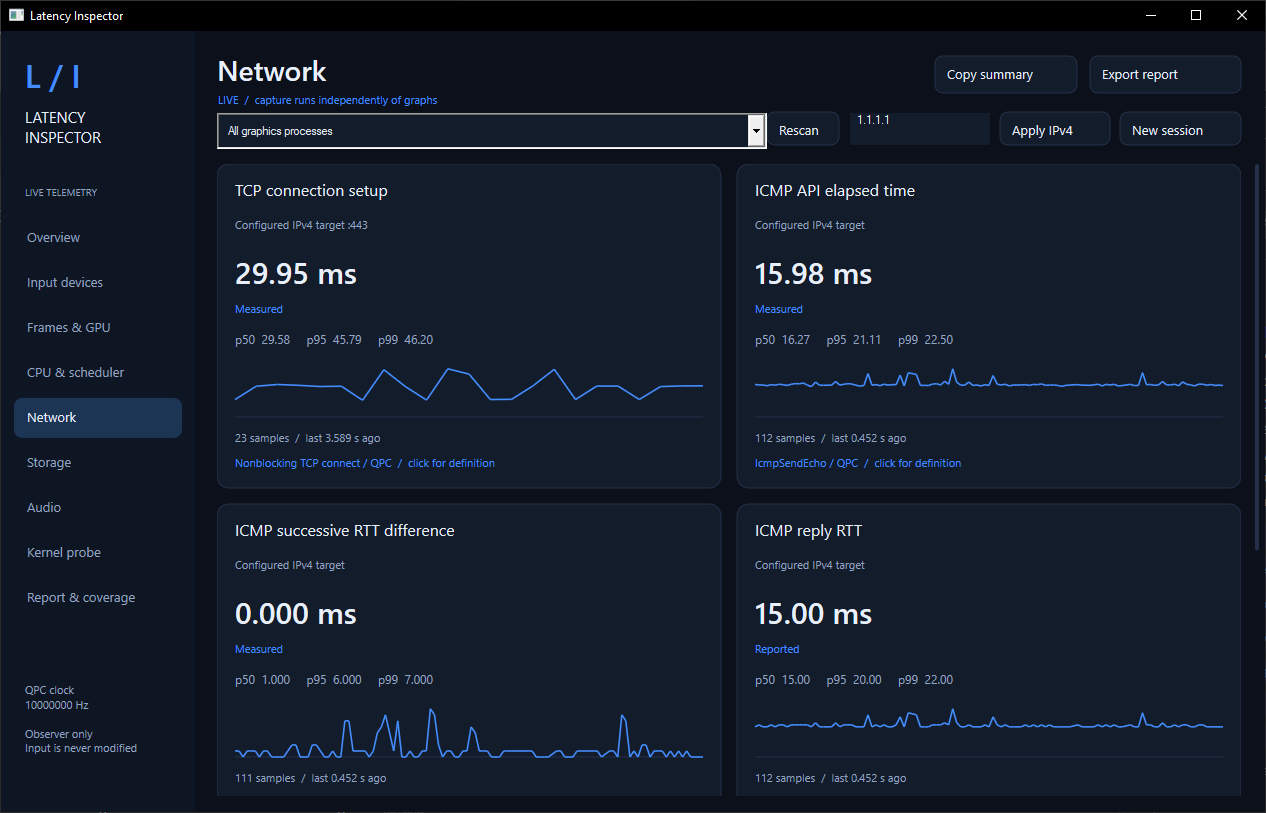
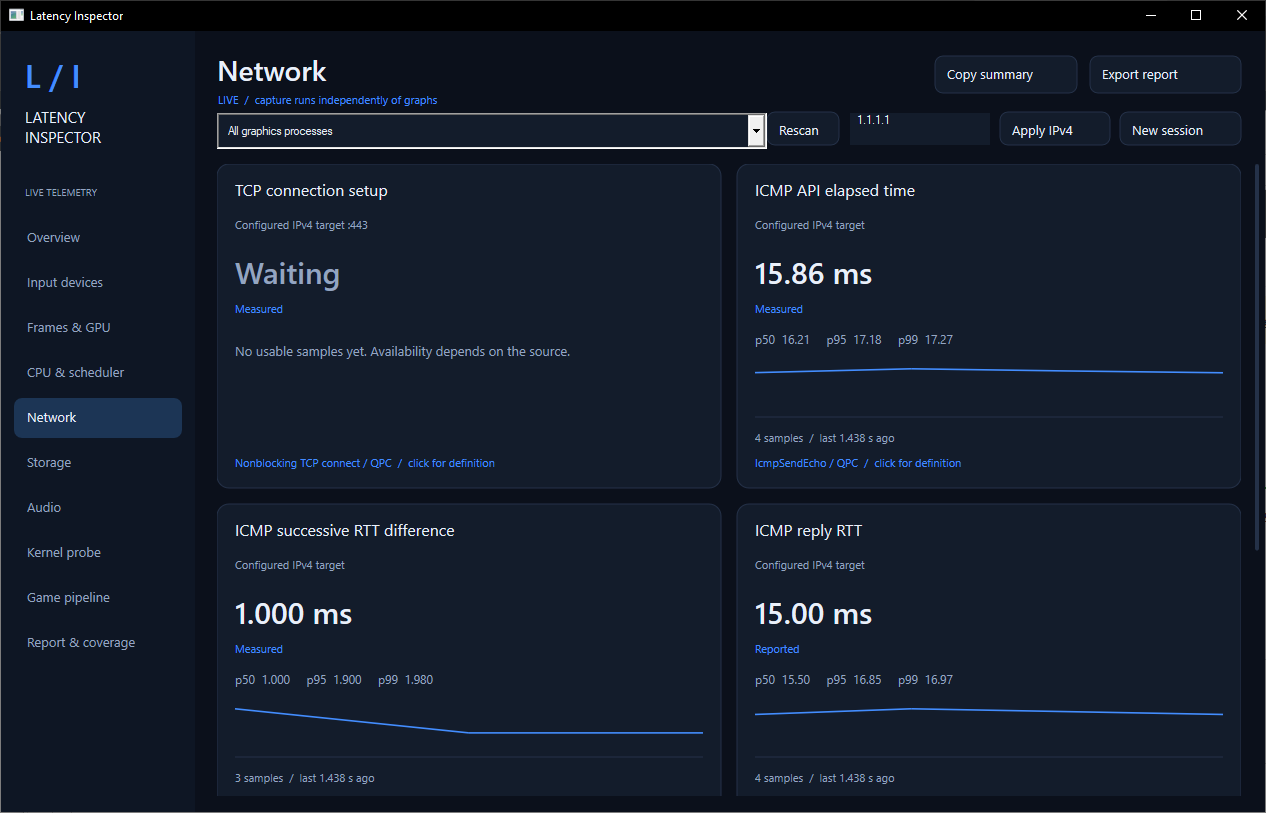
Publish Latency Inspector documentation and download guide

diff --git a/docs/measurements.md b/docs/measurements.md
@@ -20,11 +20,25 @@ Device IDs are capture-local views. PnP paths identify Windows nodes, not a guar
 
 ## Frames, CPU and GPU
 
+### Application stage markers
+
+The Game pipeline view consumes existing PCL/Reflex TraceLogging and Intel PresentMon application timing events. It never injects into a game or generates input. PCL event markers 0..5 identify simulation start/end, render submission start/end and Present start/end. Intel events can additionally provide sleep start/end and an application input-sample marker. PCL synthetic latency-ping markers are deliberately excluded from physical-input measurements.
+
+The collector does not generate diagnostic pings itself. A game's own PC Latency Stats instrumentation can generate its SDK's ping messages while statistics are enabled; those are not treated as physical mouse, keyboard or controller reports. A PCL initialization event resets that process/provider's pending pairs so markers are not paired across instrumentation reinitialization.
+
+Pairing requires the same process ID, provider and frame ID. PCL frame IDs retain all 64 bits; exported frame IDs are decimal strings to avoid JSON/JavaScript integer rounding. Providers and processes are never merged solely because timestamps are close. Missing, unsupported or reversed boundaries do not create a zero-duration sample. Identical duplicate timestamps are ignored; contradictory duplicates flag the frame as conflicting. The first valid historical pairs may remain in aggregate statistics, so review conflicts/coverage before interpreting them. Pending frame state is bounded to 512 records and the report keeps the latest 64 observed frame records.
+
+The view shows simulation, simulation-to-submission gap, render submission, submission-to-Present gap, Present, sleep, input-sample-to-Present and an aggregate simulation-start-to-Present-end interval when the required boundaries exist. These are elapsed wall-clock intervals around application-defined work and waits. They are not exclusive CPU execution times, and overlapping aggregate/child intervals must not be added.
+
+An application input-sample marker is not a USB reception timestamp and does not identify a particular physical report. This view does not correlate a marker frame with a specific PresentMon GPU/display record. USB-to-game latency, each third-party filter's per-input latency, physical display response and uninstrumented internal game functions remain unmeasured. Application instrumentation must be correctly placed by its author; registering a provider does not verify that placement. The pipeline collector has been validated with an owned marker emitter and schema/identity tests, not Fortnite or every commercial game.
+
 PresentMon uses graphics ETW events, separated by PID and swap chain. Some durations are reconstructed and require supported drivers, display events or application instrumentation. Blank fields remain unmeasured. A process may expose several swap chains. A reported display event is not a light sensor reading; monitor scan-out and pixel transition behavior cannot be independently verified here.
 
 If the full graphics pipeline produces no rows for ten seconds, capture automatically retries with CPU/Present-only tracing. This helps graphics stacks that do not provide the required GPU/display events, including some virtual machines. In that mode only CPU busy/wait, presentation interval and Present API duration are collected; GPU/display/input-to-display fields are excluded. Report & coverage identifies the fallback. Selecting a game or starting a new session retries full tracing.
 
 Kernel ISR/DPC durations describe system activity. ReadyThread/CSwitch pairs describe observed waits between a thread becoming ready and running. Only paired, known transitions contribute. Events lost by ETW or unobserved transitions limit coverage. These numbers do not by themselves establish that a game or input was delayed. Thread filtering uses known thread ownership; unowned events are not guessed.
+
+Driver attribution resolves the DPC/ISR entry routine address to a loaded kernel image range. An initial driver snapshot is supplemented by supported kernel image load/unload events. Unknown addresses remain unresolved and contribute to an unresolved-attribution flag. Per-driver values are inclusive elapsed routine intervals in microseconds and can include nested interrupts/preemption. They are not exclusive driver CPU time, not request residence time and not a critical-path allocation to the selected game or a particular input. Framework entry routines can resolve to the framework module instead of the vendor callback it invokes. Drivers that process input without a DPC/ISR are not covered by this breakdown.
 
 Timer wake lateness measures the inspector worker's lateness against a nominal 1 ms timer schedule. It includes collector execution and host scheduling effects. It is not the selected game's scheduling delay. CPU percentages are normalized across logical processors. Inspector CPU/memory measurements exclude its separate PresentMon process and some kernel trace overhead.
 
@@ -49,3 +63,6 @@ The initial release was built with warnings treated as errors and tested for bou
 - [Microsoft: DiskIo event data](https://learn.microsoft.com/en-us/windows/win32/etw/diskio-typegroup1)
 - [Microsoft: low-latency audio](https://learn.microsoft.com/en-us/windows-hardware/drivers/audio/low-latency-audio)
 - [Intel: PresentMon console metrics](https://github.com/GameTechDev/PresentMon/blob/v2.6.0/README-ConsoleApplication.md)
+- [NVIDIA: PC latency markers and their measurement boundaries](https://developer.nvidia.com/blog/?p=64245)
+- [Microsoft: DPC/ISR attribution by module and inclusive/exclusive duration](https://learn.microsoft.com/en-us/windows-hardware/test/wpt/cpu-analysis)
+- [Intel: public PCL marker schema](https://github.com/GameTechDev/PresentMon/blob/v2.6.0/PresentData/ETW/Nvidia_PCL.h)

diff --git a/README.md b/README.md
@@ -8,9 +8,9 @@
 
 ## Get started
 
-1. Download **Latency-Inspector-1.0.0-Windows-x64.zip** from Releases and extract the whole folder.
+1. Download **Latency-Inspector-1.1.0-Windows-x64.zip** from Releases and extract the whole folder.
 2. Run **LatencyInspector.exe**. Accept the administrator prompt for Windows kernel tracing.
-3. Select your game in the process list, or keep **All graphics processes**. Changing the selection starts a fresh measurement session.
+3. Open your game and select it in the process list. **Game pipeline** shows stages emitted by compatible instrumented applications, matched by PID, provider and frame ID. Missing stages remain unmeasured. Changing the selection starts a fresh measurement session.
 4. Play normally. Select a category or input device to inspect its graphs. Click a graph card for its exact definition.
 5. Use **Export report** to save measurements, percentiles, device identities and collector status as JSON.
 
@@ -23,7 +23,8 @@ Windows 10 version 2004 or later / Windows 11, x64. No runtime installation, acc
 | Keyboard, mouse and HID controllers | Separate Windows Raw Input device views, message intervals and handler time; includes supported Windows HID views of gamepads. |
 | Xbox / XInput / GIP | XInput state-query cost and packet-change intervals per slot; HID views when Windows exposes them; optional passive kernel transport observations. |
 | Frames and GPU | Present intervals, CPU busy/wait, GPU busy/wait and queueing timelines, Present API time and software display estimates through Intel PresentMon. Availability depends on the game, graphics driver and presentation mode. |
-| CPU and system | ISR/DPC duration, observed thread ready-to-running waits, timer wake lateness, hard faults, CPU and memory usage. |
+| Game pipeline | Actual application marker pairs for simulation, render submission, Present and supported sleep/input-sample boundaries. PCL/Reflex and Intel application events are matched by PID, provider and full frame ID. No process injection is used. |
+| CPU and system | ISR/DPC duration, including containing driver-image names where resolvable; observed thread ready-to-running waits, timer wake lateness, hard faults, CPU and memory usage. |
 | Network | Synthetic IPv4 ICMP RTT, successive RTT variation, unanswered probes and TCP port 443 connection setup. Set the target in the top bar. These are separate from the game's network traffic. |
 | Storage | Kernel disk read/write response times, plus selected-process I/O volume and attributed disk timings when issuing-thread ownership is available. |
 | Audio | WASAPI default, minimum and current shared-engine periods, where exposed by the endpoint. |
@@ -35,6 +36,8 @@ Capture runs independently of graph updates. Graphs keep a bounded rolling windo
 **Measured** means an elapsed interval between software timestamps. **Reported** means a value exposed by Windows. **Estimated** means a reconstructed timeline. A missing measurement stays unavailable; it is not displayed as zero latency.
 
 Software alone cannot measure every physical delay. Input message cadence is not switch-to-game latency; an outstanding read includes waiting for input; PresentMon display estimates are not optical pixel measurements; audio periods are not physical sound latency. External hardware or application instrumentation is needed for those stages. See the [measurement guide](docs/measurements.md).
+
+**Attribution has explicit boundaries.** The game-marker view measures elapsed time between markers for the same frame; this includes both work and waits. A driver DPC/ISR value is an inclusive routine interval, not proof that a mouse report spent that time in that driver. This version does not establish a USB-report-to-game-consumption link, isolate every third-party input filter's processing time, or join the new marker timeline to a particular GPU/display event. Those totals remain unmeasured rather than guessed. Fortnite-specific marker availability and accuracy have not been validated.
 
 ### Optional kernel probe
 
